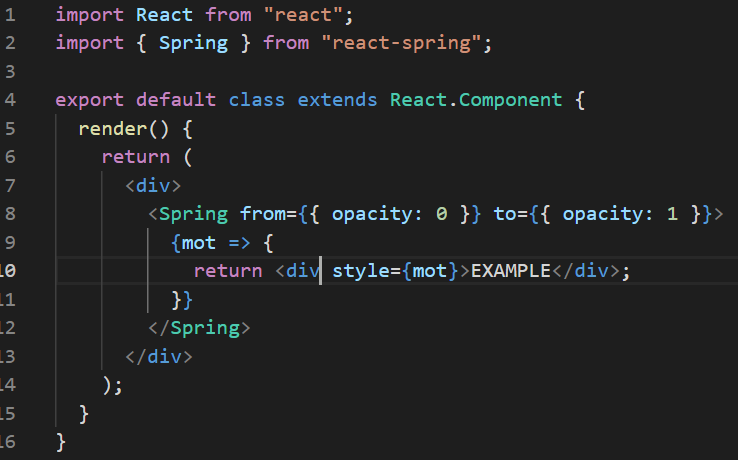
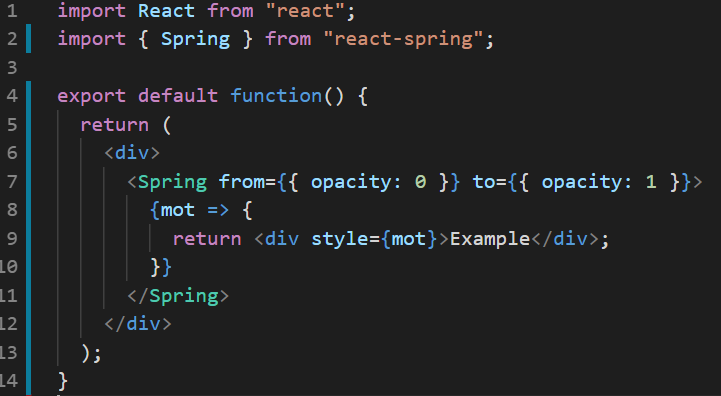
read me added with gif

Changed region(s): [[0.0, 0.1515, 0.9764, 1.0], [0.0, 0.0, 0.7018, 0.1212], [0.0915, 0.8788, 0.1526, 0.9394]]

diff --git a/components/test.js b/components/test.js
@@ -1,25 +1,14 @@
 import React from "react";
-import { Transition } from "react-spring";
+import { Spring } from "react-spring";
 
-export default class extends React.Component {
-  state = {
-    items: [{ key: 1 }, { key: 2 }, { key: 3 }]
-  };
-  render() {
-    return (
-      <div>
-        <Transition
-          items={this.state.items}
-          keys={item => item.key}
-          from={{ transform: "translate3d(0.5%,-100%,0)", opacity: 0 }}
-          enter={{ transform: "translate3d(0,0,0)", opacity: 1 }}
-          leave={{ transform: "translate3d(0%,100%,0)", opacity: 0 }}
-        >
-          {(item, phase, i) => props => {
-            return <div style={props}>{item.key}</div>;
-          }}
-        </Transition>
-      </div>
-    );
-  }
+export default function() {
+  return (
+    <div>
+      <Spring from={{ opacity: 0 }} to={{ opacity: 1 }}>
+        {mot => {
+          return <div style={mot}>Example</div>;
+        }}
+      </Spring>
+    </div>
+  );
 }

diff --git a/pages/SpringExample.js b/pages/SpringExample.js
@@ -38,7 +38,12 @@ export default class extends React.Component {
           </Link>
         </div>
         {/* ///////////////////// */}
-        <button onClick={this.handleModal}>Show Code</button>
+        <button
+          onClick={this.handleModal}
+          style={{ position: "fixed", top: 0 }}
+        >
+          Show Code
+        </button>
         <Spring
           from={{ opacity: 0 }}
           to={{

diff --git a/README.md b/README.md
@@ -1,0 +1,46 @@
+## Author(s)
+
+- Timmy (T-Bone) Matthews
+
+## Last Outline Update:
+
+12/20/18
+
+## Important things to know
+
+- This workshop was created using nextjs, rather than running <br/> npm start <br/> you need to run <br/>npm run dev
+
+## Repo for Project
+
+[https://github.com/tmat06/workshop-react-spring](https://github.com/tmat06/workshop-react-spring)
+
+## Objective for Workshop
+
+- To introduce students to the power of React-Spring, an animation library specializing in interpolating data using primitives.
+- Simple examples to encourage students to experiment and implement into their future projects.
+- Focusing on Transitioning Components and Trailing Effects
+
+## Structure, timing, order
+
+Currently there are 4 React-Spring features that will be displayed. Sample code is presented with each example. <br/>
+4 - 5 minutes per example
+
+- You're encouraged to experiment with the examples and to mess with the code. Also encourage students to play around with the code as well while watching the workshop, specifically the Spring feature.
+
+### Build Together
+
+8 minutes
+
+- Attached is an article talking about the benefits of using React-Spring over other animation libraries. This should be replacing React-Motion as it can interpolate data in a much smoother manner while still being able to manipulate visual features with primitive variables. Review the attached article as well as examples given on the documentation. Also note that trying to code Trailing variables can be very difficult but with React-Spring it's a breeze. React-Spring also makes it possible to have components enter and exit in style, something which was very difficult to do in previous animation libraries and vanilla css.
+
+### Questions
+
+2 minutes
+
+- Open for questions. Answers should be given through the documentation. Clarification of simple code examples or more advanced questions of data flow can be answered at this time.
+
+### Final Thoughts
+
+- The objective is to expose students to React-Spring and to show them how easy it is to implement into their projects. With just a few lines of code, their projects can be animated in smooth transitions. This should also encourage students to experiment with React-Spring over other animation libraries such as React-Motion.
+
+![visual walkthrough](/static/react-spring.gif)
